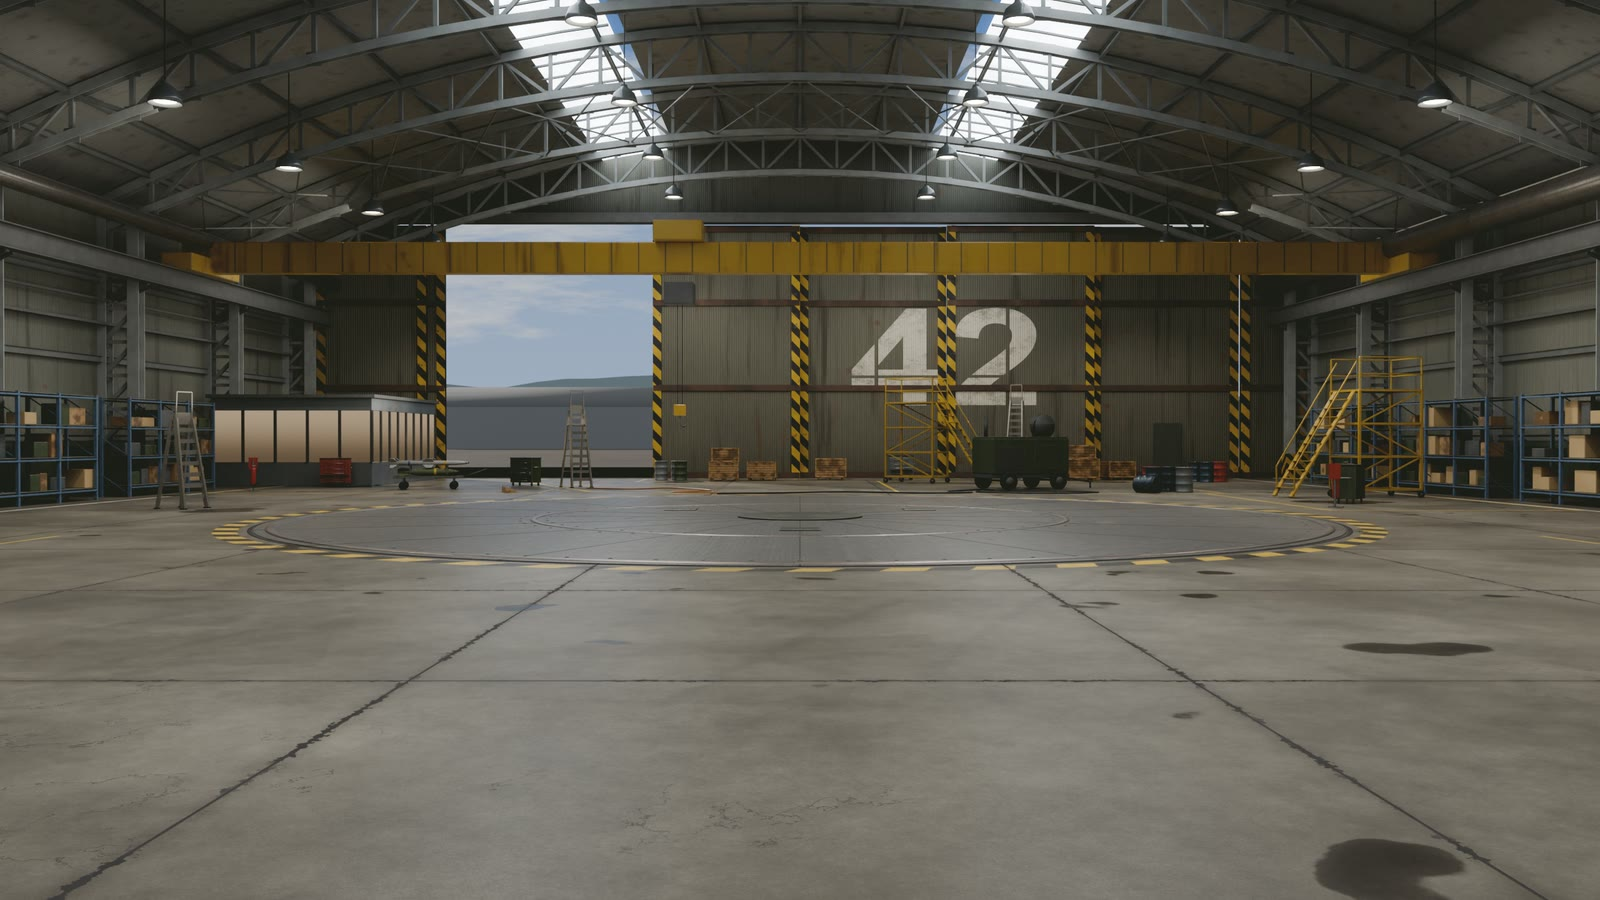
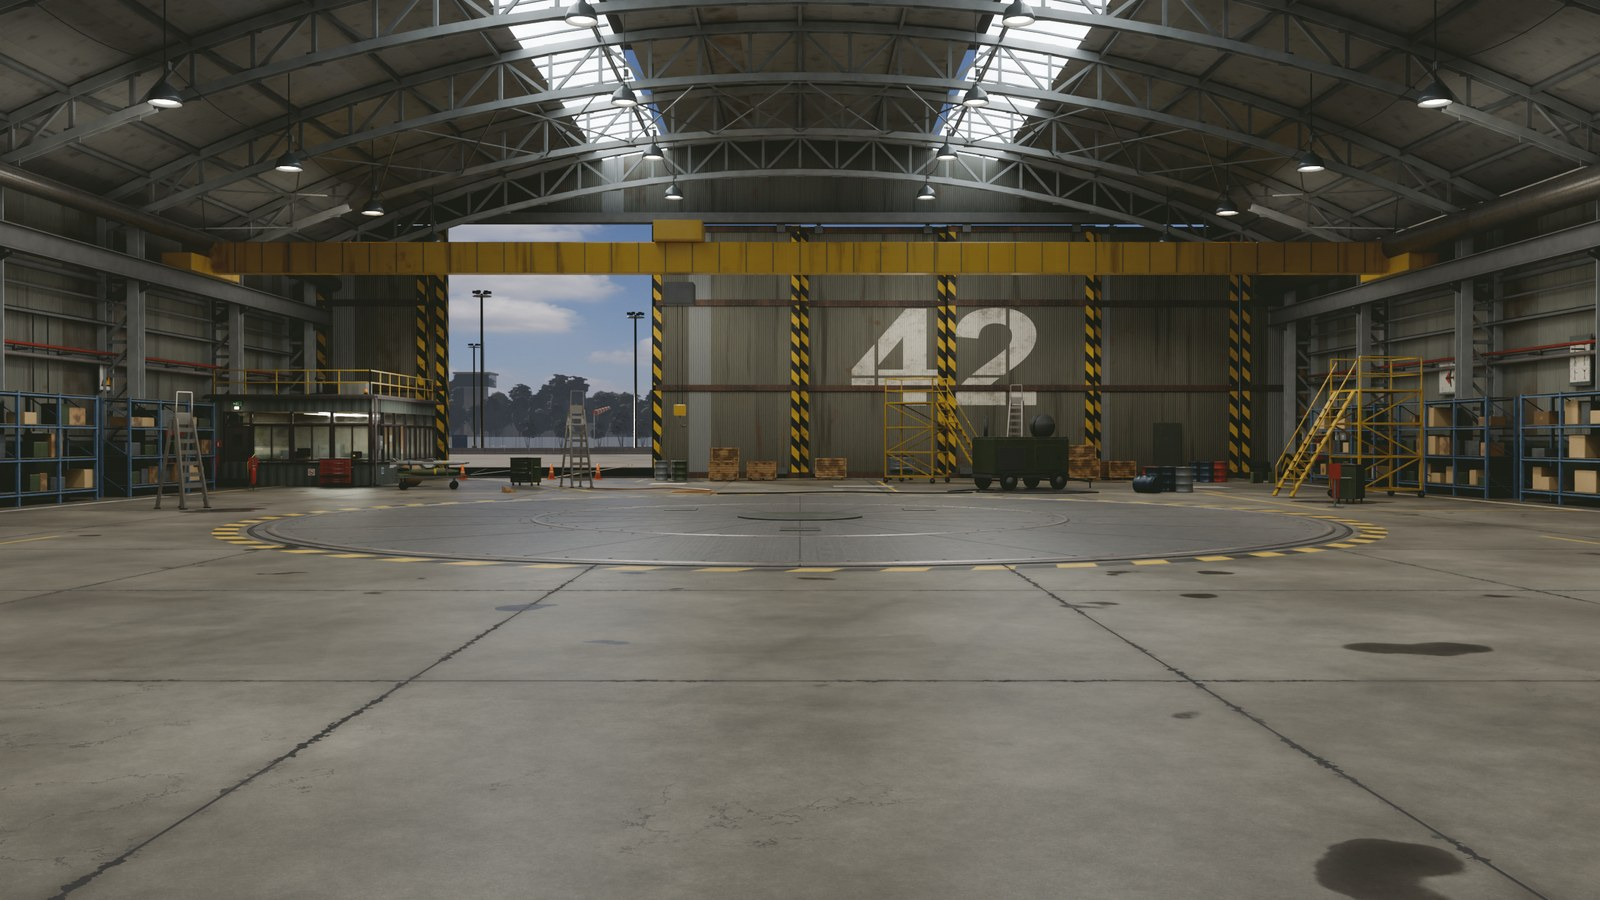
Новый фон ангара: детальная контора, перрон за воротами, небо HDRI
Камера, круг и пол прежние; небо Poly Haven CC0 в общей записи авторов.

diff --git a/fortuna-bot-web/games/airdef/models.js b/fortuna-bot-web/games/airdef/models.js
@@ -348,7 +348,7 @@ export const PLANE_META = Object.fromEntries(Object.entries(META).filter(([, m])
 // текстуры города (tex/*.jpg) - ambientCG: Grass004, PavingStones151, Concrete042A, RoofingTiles006, Facade002/017/018A;
 // Poly Haven (tex/p_*.jpg): asphalt_02, road_damaged_2, gravel, rocky_terrain_03, brown_mud_03
 const TEX_CREDIT = { title: tr('Текстуры земли, дорог, крыш и фасадов'), author: 'ambientCG', url: 'https://ambientcg.com', license: 'CC0', files: ['tex/*.jpg'] };
-const PH_CREDIT = { title: tr('Текстуры асфальта, щебня, скал и пашни; панорамы неба'), author: 'Poly Haven', url: 'https://polyhaven.com', license: 'CC0', files: ['tex/p_*.jpg', 'sky/*.jpg'] };
+const PH_CREDIT = { title: tr('Текстуры асфальта, щебня, скал и пашни; панорамы неба'), author: 'Poly Haven', url: 'https://polyhaven.com', license: 'CC0', files: ['tex/p_*.jpg', 'sky/*.jpg', 'ui/hangar/*.jpg'] };
 // взрывы (fx/*.png): огненный шар с дымом - ohyhei; вспышка с кольцом - Explosion FX Free (heyheythere; его пламя пожаров убрано 2026-10-28 - свой ex_burn)
 const FX_CREDITS = [
   { title: tr('Иконки управления'), author: 'Delapouite, Lorc, Skoll (game-icons.net)', url: 'https://game-icons.net', license: 'CC BY 3.0', licenseUrl: 'https://creativecommons.org/licenses/by/3.0/', files: ['icons.js'] },

diff --git a/fortuna-bot-web/AIRDEF_STATE.md b/fortuna-bot-web/AIRDEF_STATE.md
@@ -1798,3 +1798,4 @@ Mark работает с **Opus на высоком усилии** — он ру
 - 2026-11-13 · Opus 5.5 · **Свои элементы ангара, набор Б «Аэродромный щит», и «В бой» на кнопке** (Mark выбрал Б у fuel-builder; «текст взлет - переделал под В бой»): 24 webp в games/airdef/ui/hangar/b_*.webp (~115 КБ) из Ангар/интерфейс/_чистовые (ПАСПОРТ.json - срезы 9-slice), блок CSS в airdef.html после стилей ангара: кнопка запуска (обычная/нажатая/неактивная), бирка ранга, таблички подвесок (обычная/выбранная/закрытая), ярлык и метка выбранной, выбранный режим, карточки самолётов, ячейки оружия, сводка со стрелкой, квадратные кнопки и разделы, лампы загрузки. Доски/пластины «Заданий» остались только в «Заданиях» и кнопке заданий. menu.js: tr(«Взлёт») → tr(«В бой») на главной кнопке (en «To battle»); «Взлёт» у вертолётов в событии и сообщение при взлёте не тронуты. Проверено в игре 844×390, 844×306, 1280×720; ui-test «ошибок нет». Не задеплоено (в деплой - assets-manifest для новых файлов).
 - 2026-11-13 · Opus 5.5 · **Свой МиГ-27К в игре, ревизия 2 с коротким носом** (Mark: «внедряй самолеты которые уже собраны»; собирал vulcan-builder на основе своего МиГ-23БН): own/mig27* + mig27-build (паспорт), рецепт own 2048 + e_mig27_gear, groups door_*/ventral (gearHide); 4 точки mirror([фюзеляж, наплыв]) - stOrder(4) ставит Х-29Т под наплывы, КАБ-500Л под фюзеляж; racks, pod: null; GLB_V_OWN 20261113d, старый hi.glb убран; ktx: картинка старого Як-38, общая со старым МиГ-27, стала своей e_yak38.19. Ложные цели - сверху хвостовой части по cm-points/spec.json (как у всех восточных; сборщик предлагал одну точку снизу), sim/cm.js → update.ps1 после деплоя. Кредит manilov.ap оставлен только для кадров меню air_e_mig27_h1 и shots/mig27-kh29t-sunset (до пересъёмки). «Кайра» встроена: pod: true в загрузке нужен для лазера, поэтому в подвеске у самолётов без места контейнера (models.js podBuiltIn: pod: null - МиГ-27К, Су-25, F-111, Jaguar, Су-34, F-117, Су-57, F-35, Су-35) пишется «прицел» вместо «контейнер» (ангар, меню, онлайн). Крыло в бою - по скорости (Mark: «по скорости оставляем»). Задания: МиГ-25БМ - vulcan-builder (Свои/МиГ-25БМ/ЗАДАНИЕ.md); фон ангара до максимального реализма (кабинка, перрон за воротами) - fuel-builder (Ангар/ЗАДАНИЕ_доработка.md). Тесты 9 наборов зелёные (кроме известной копии arsenal.js - sync-shared при деплое), ревью без ошибок. Не задеплоено.
 - 2026-11-13 · Opus 5.5 · **Свой Су-25 в игре** (Mark: «внедряй самолеты которые уже собраны»; собирал hawk21-builder, окраска - цифровой пиксель без флагов и кокард по слову Mark): own/su25* + su25-build (паспорт), рецепт own 2048 + e_su25_gear (стойки и открытые створки отдельно, gearHide не нужен), pk_e_su25 пересобран (стоянки city.js); 4 точки на сторону p4..p1 (p5 под Р-60 только в модели), контейнер на подфюзеляжном пилоне pylon_c - pod V(0,-2.113,0.475), поэтому у Су-25 в подвеске снова «контейнер», а не «прицел» (в строке МиГ-27К выше Су-25 указан ошибочно); racks, dry, сопла ±0,89; GLB_V_OWN 20261113e, старый hi.glb убран; ложные цели по spec.json (sim/cm.js → update.ps1). Кредит mamont nikita - только для shots/su25-fog и su25-kh29 (до пересъёмки). Тесты 9 наборов зелёные (кроме известной копии arsenal.js), ревью без ошибок. Сборщик после сдачи по замечаниям Mark делает второй проход износа и корень крыла - новую сборку подменить файлами own/su25* + prepare + ktx + GLB_V. Не задеплоено.
+- 2026-11-14 · Opus 5.5 · **Новый фон ангара** (Mark выбрал вариант «А, солнце» у сборщика fuel-builder; «фон ангара готов»): ui/hangar/fighter, heavy (2560×1440) и _s (1600×900) заменены. Камера, fov, круг, пол, свет зала и «42» прежние, поэтому самолёт и подъёмники стоят как раньше. Добавлены детальная контора, перрон за воротами с укрытиями, мачтами и лесом, небо из HDRI (Poly Haven kloofendal_48d_partly_cloudy_puresky, CC0) и мелкие детали на воротах, стенах и полу. Самолётов и машин за воротами нет (Mark). Общая запись Poly Haven в авторах (models.js PH_CREDIT) теперь включает ui/hangar/*.jpg, строка в CREDITS.md. Прежние кадры лежат в Ангар/_чистовые/_прежние_2026-11-04. Проверено в живой игре на 1280×720. Не задеплоено (при деплое: assets-manifest).

diff --git a/fortuna-bot-web/games/airdef/models/CREDITS.md b/fortuna-bot-web/games/airdef/models/CREDITS.md
@@ -94,6 +94,7 @@
 - "Large Industrial Storage Tanks" (https://sketchfab.com/3d-models/large-industrial-storage-tanks-bd3ac97071104b64bc388a155b64f79e) by Duane's Mind — CC-BY-4.0 — `obj_tanks.glb`
 - "Rusty airbase fuel tank" (https://sketchfab.com/3d-models/rusty-airbase-fuel-tank-5ac257aee23e47e0a0f91a4e07a40692) by LuddePudde — CC-BY-4.0 — `obj_rtank.glb`
 - "j type hanger" (https://sketchfab.com/3d-models/j-type-hanger-d86713d61b4941378a6ad21569e0cbac) by ElectricLeo — CC-BY-4.0 — `obj_jhangar.glb`
+- "Kloofendal 48d Partly Cloudy (Pure Sky)" (https://polyhaven.com/a/kloofendal_48d_partly_cloudy_puresky) by Greg Zaal, Jarod Guest — CC0 — `ui/hangar/fighter.jpg`, `heavy.jpg` (+ `_s`): небо за воротами фона ангара
 - "Factory Low-Poly" (https://sketchfab.com/3d-models/factory-low-poly-7d3bc4d7ce6d48d9986a664d48f3cca1) by KIFIR — CC-BY-4.0 — `obj_factory.glb`
 - "Soviet Panelki — Voxel Style Apartment Buildings" (https://sketchfab.com/3d-models/soviet-panelki-voxel-style-apartment-buildings-632517fa9977439895f8953f2e541ee5) by My Name Is This — CC-BY-4.0 — `bld_p5.glb`
 - "Soviet panel house built in the 1970s" (https://sketchfab.com/3d-models/soviet-panel-house-built-in-the-1970s-94996e8cf4a8452d91ec1e206b5b4137) by Unka II — CC-BY-4.0 — `bld_p9.glb`
